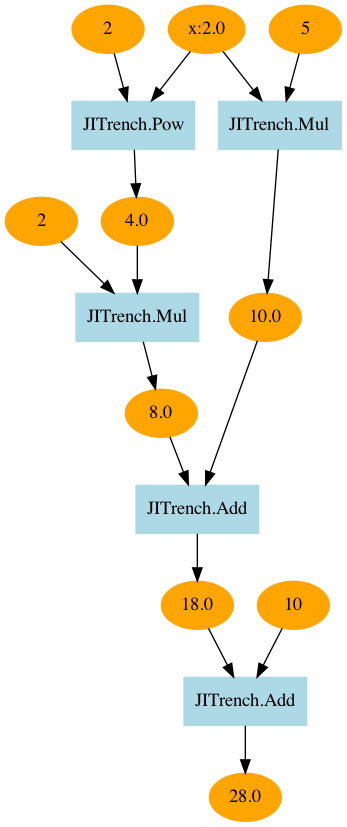
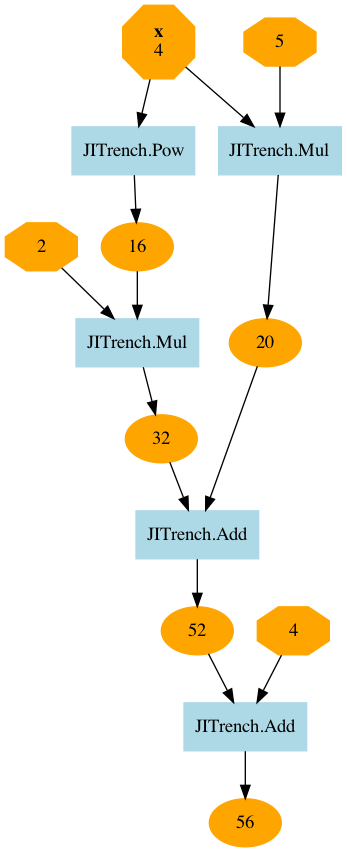
update example about visualize

Changed region(s): [[0.0, 0.0, 1.0, 0.9976], [0.6628, 0.4837, 0.6916, 0.5139], [0.634, 0.5139, 0.6628, 0.5441]]

diff --git a/README.md b/README.md
@@ -69,7 +69,7 @@ creator: JITrench.Mul
 julia> JITrench.plot_graph(z, to_file="graph.png")
 ```
 
-![](https://media.discordapp.net/attachments/810478331790491681/924093946496434207/graph.png?width=810&height=854)
+![](example/visualize/goldstain.png)
 
 
 ```julia
@@ -83,7 +83,7 @@ name: x₂
 values: [0, 2, 4]
 creator: User-Defined(nothing)
 
-julia> Δx = x2 .- x1
+julia> Δx = x₂ .- x₁
 name: nothing 
 values: [1, 0, 1]
 creator: JITrench.Broadcasting{typeof(-)}
@@ -94,7 +94,7 @@ julia> Δx.name = "Δx"
 julia> JITrench.plot_graph(Δx, to_file="graph2.png")
 ```
 
-![](https://media.discordapp.net/attachments/810478331790491681/924093946844573767/graph2.png?width=810&height=290)
+![](example/visualize/graph2.png)
 
 ## Example: Train Neural Networks
 
@@ -142,5 +142,4 @@ train(model, generate_dataset(100)...)
 ```
 
 
-![](https://media.discordapp.net/attachments/810478331790491681/924441367923523624/fitting_history.gif)
-![](https://media.discordapp.net/attachments/810478331790491681/924441368514928700/model.png?width=810&height=358)
+![](example/neural_networks/fitting_history.gif)
